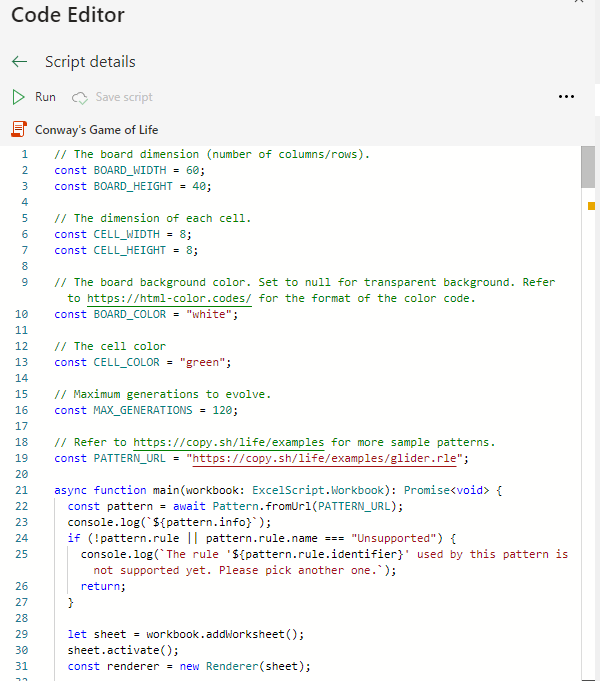
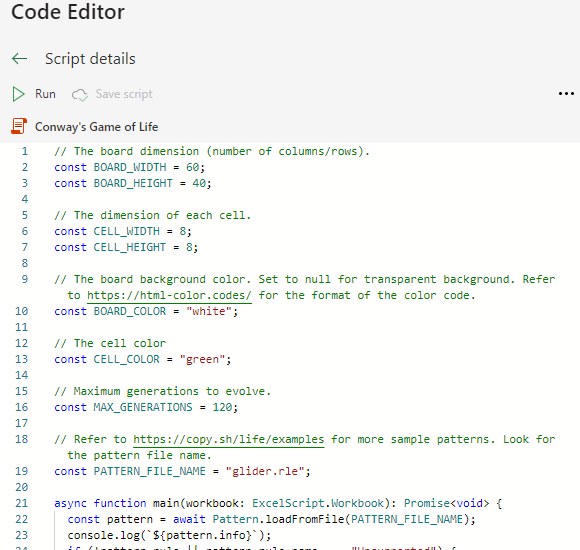
Minor changes

diff --git a/src/game-of-life.ts b/src/game-of-life.ts
@@ -15,7 +15,7 @@ const CELL_COLOR = "green";
 // Maximum generations to evolve.
 const MAX_GENERATIONS = 120;
 
-// Refer to https://copy.sh/life/examples for more sample patterns.
+// Refer to https://copy.sh/life/examples for more sample patterns. Look for the pattern file name.
 const PATTERN_FILE_NAME = "glider.rle";
 
 async function main(workbook: ExcelScript.Workbook): Promise<void> {
@@ -23,6 +23,11 @@ async function main(workbook: ExcelScript.Workbook): Promise<void> {
   console.log(`${pattern.info}`);
   if (!pattern.rule || pattern.rule.name === "Unsupported") {
     console.log(`The rule '${pattern.rule.identifier}' used by this pattern is not supported yet. Please pick another one.`);
+    return;
+  }
+
+  if (pattern.height > BOARD_HEIGHT || pattern.width > BOARD_WIDTH) {
+    console.log(`The pattern is too large (${pattern.width} x ${pattern.height}) to fit in the game board (${BOARD_WIDTH} x ${BOARD_HEIGHT}). Please choose a smaller pattern or increase the size of the board.`);
     return;
   }
 
@@ -266,7 +271,7 @@ class Pattern implements Grid {
   ]
 
   static async loadFromFile(fileName: string): Promise<Pattern> {
-    let fetchResult = await fetch(`https://rulefetcher.azurewebsites.net/${fileName}`);
+    let fetchResult = await fetch(`https://rule-fetch.glitch.me/${fileName}`);
     let patternFileContent = await fetchResult.text();
     let lines = patternFileContent.split("\n");
     let pattern: Pattern = new Pattern();
